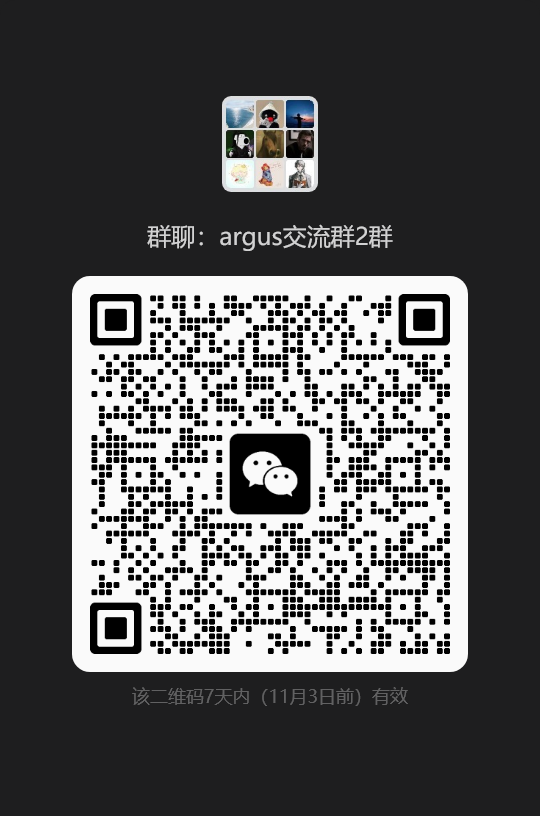
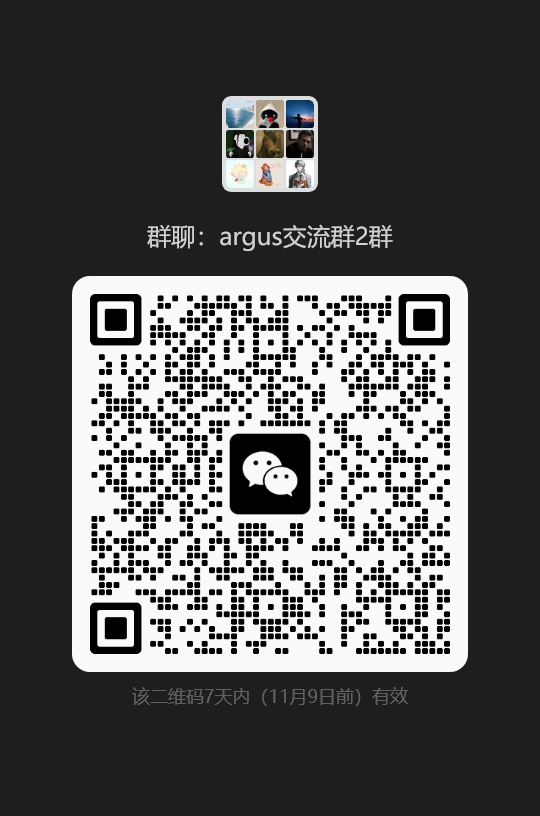
docs: refresh WeChat group QR code

Changed region(s): [[0.1481, 0.337, 0.8296, 0.8272]]

diff --git a/README.zh-CN.md b/README.zh-CN.md
@@ -87,11 +87,11 @@ Manager/Planner/Engineer/Reviewer 运行时作为自定义 Agent 直接调用。
 ## 微信群
 
 扫码加入 Argus 交流群 2 群；点击图片可以查看原图。本次二维码在
-**2026 年 11 月 3 日前**有效（以图片提示为准）；过期后请在 Issue 中联系维护者更新。
+**2026 年 11 月 9 日前**有效（以图片提示为准）；过期后请在 Issue 中联系维护者更新。
 
 <p align="center">
-  <a href="docs/assets/argus-wechat-group-2.png?v=20261027">
-    <img src="docs/assets/argus-wechat-group-2.png?v=20261027" width="360" alt="Argus 微信交流 2 群二维码">
+  <a href="docs/assets/argus-wechat-group-2.png?v=20261102">
+    <img src="docs/assets/argus-wechat-group-2.png?v=20261102" width="360" alt="Argus 微信交流 2 群二维码">
   </a>
 </p>
 

diff --git a/README.md b/README.md
@@ -96,12 +96,12 @@ updates. See **[Counterexample Lab and Jacobian setup](docs/counterexample-lab-j
 ## WeChat community
 
 Scan the QR code to join Argus WeChat Group 2. Click the image to open it at full
-size. This code is valid **before November 3, 2026**, as shown in the image.
+size. This code is valid **before November 9, 2026**, as shown in the image.
 After it expires, open an Issue and ask the maintainers for the latest code.
 
 <p align="center">
-  <a href="docs/assets/argus-wechat-group-2.png?v=20261027">
-    <img src="docs/assets/argus-wechat-group-2.png?v=20261027" width="360" alt="Argus WeChat Group 2 QR code">
+  <a href="docs/assets/argus-wechat-group-2.png?v=20261102">
+    <img src="docs/assets/argus-wechat-group-2.png?v=20261102" width="360" alt="Argus WeChat Group 2 QR code">
   </a>
 </p>
 
